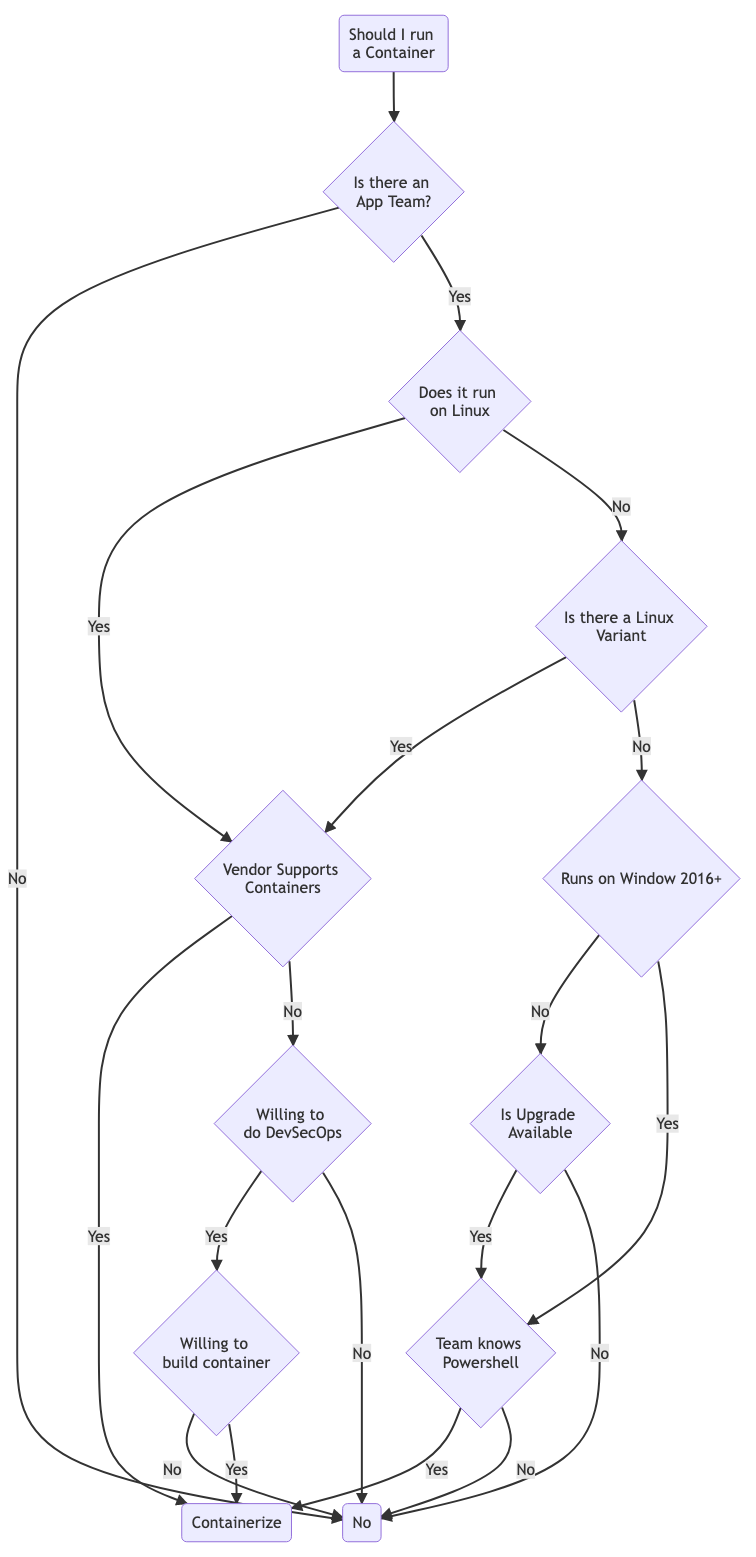
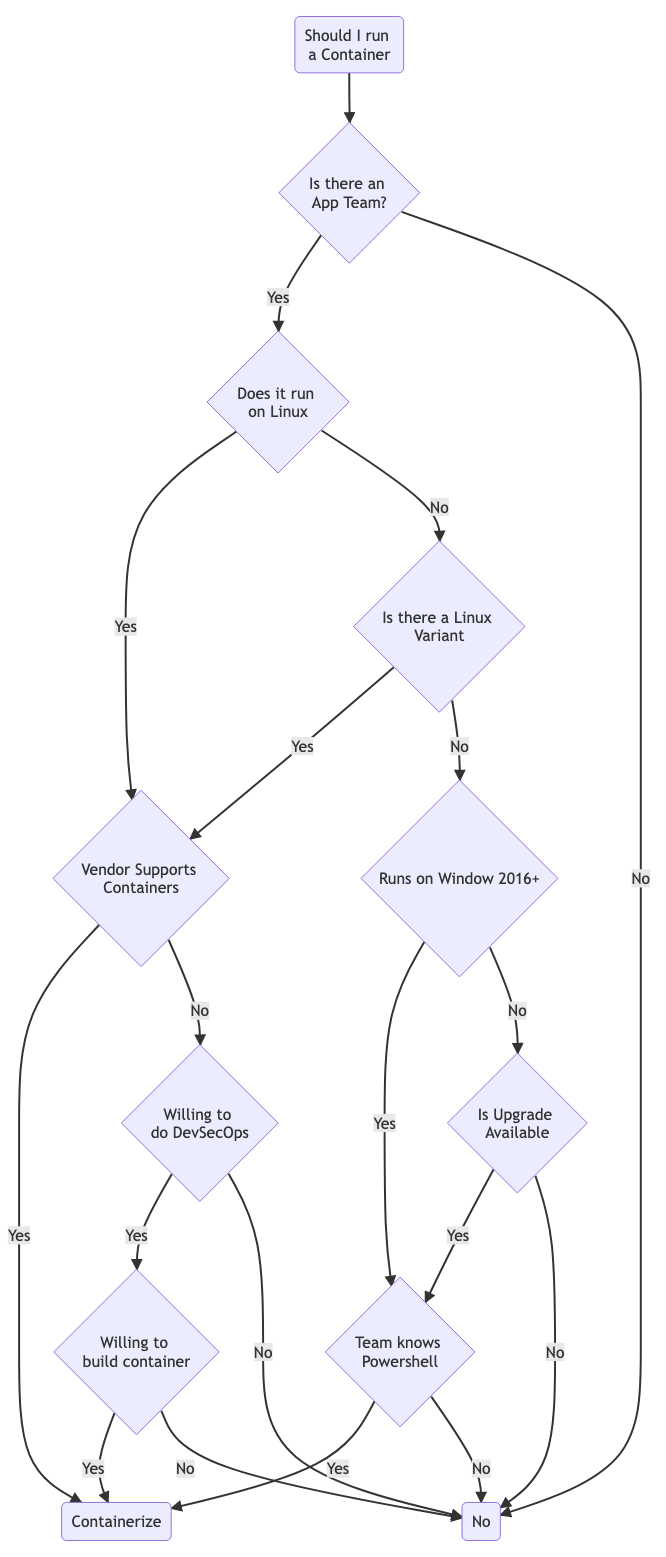
Automated deployment: Mon Mar  7 04:37:54 UTC 2022 jshingler/jshingler-blog@9ad8dced42ed57fd7c37f8fd3e5a345327ade161

diff --git a/blog/2022/03/05/xaas/index.html b/blog/2022/03/05/xaas/index.html
@@ -1069,7 +1069,7 @@ Work in progress
 </div>
 <div class="imageblock">
 <div class="content">
-<img src="../../../../../img/blog/XaaS/when-caas.png" alt="when caas" width="756" height="1557">
+<img src="../../../../../img/blog/XaaS/when-caas.png" alt="when caas" width="666" height="1557">
 </div>
 </div>
 <div class="admonitionblock note">
